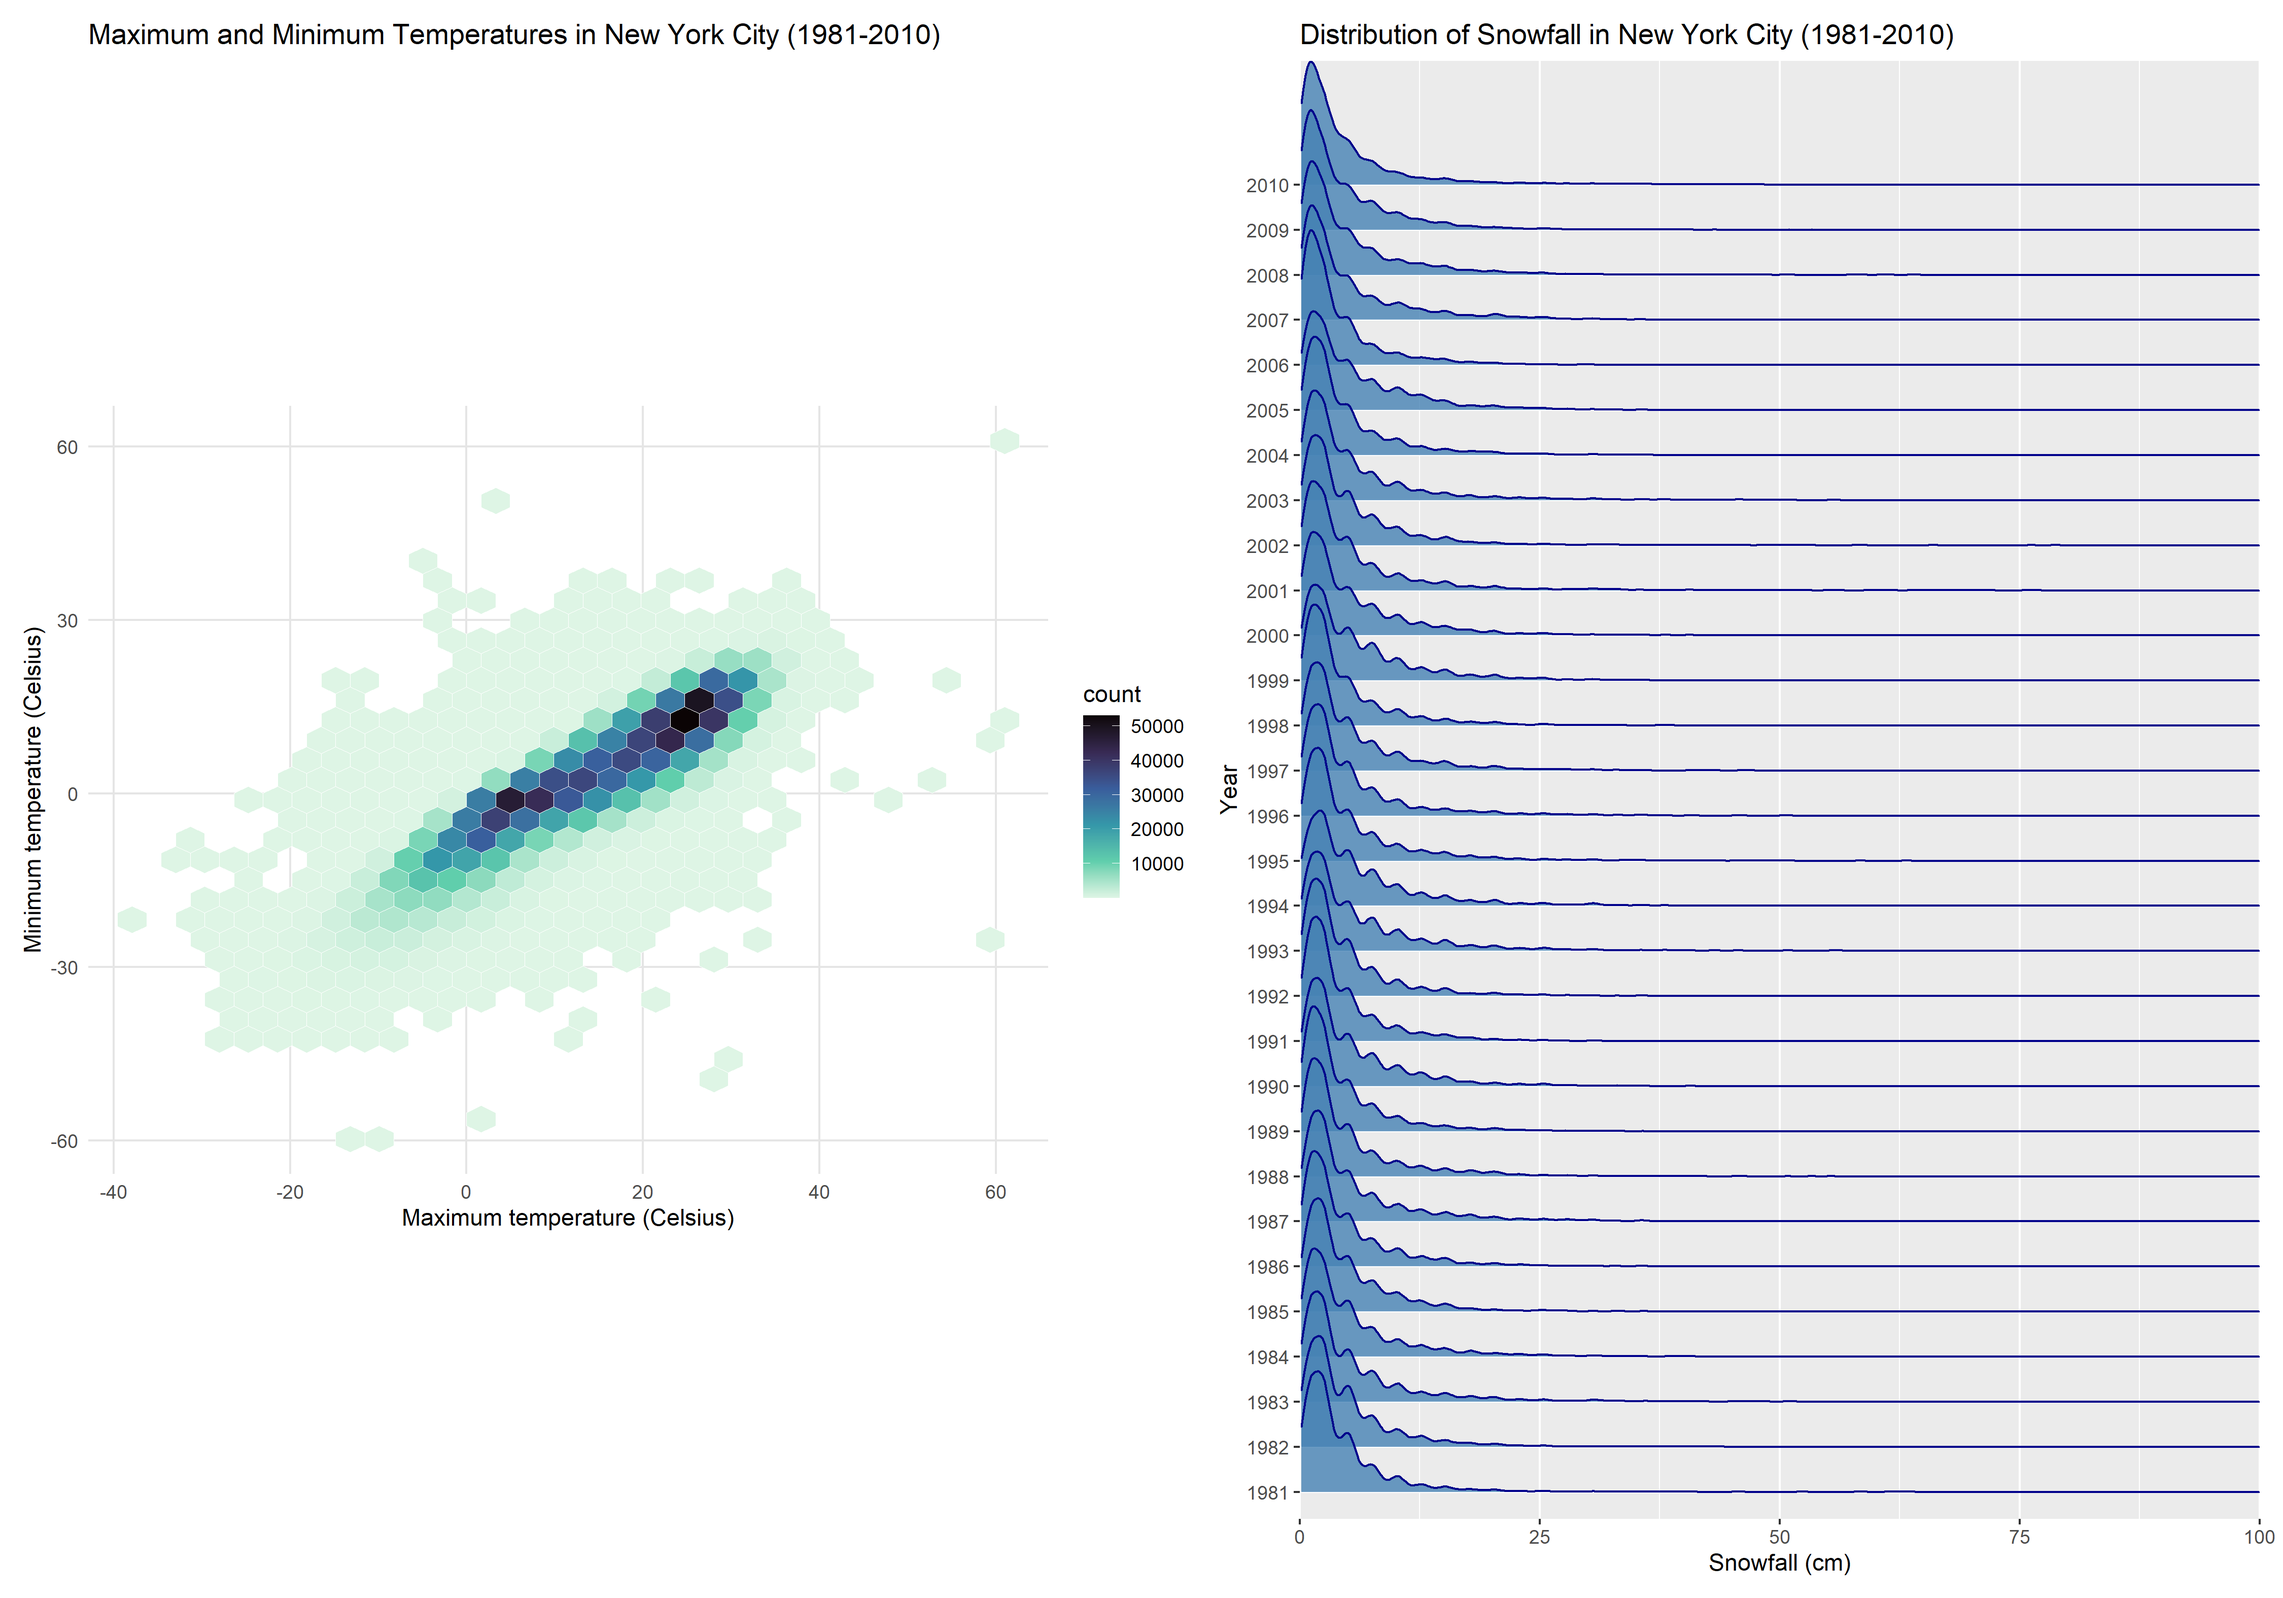
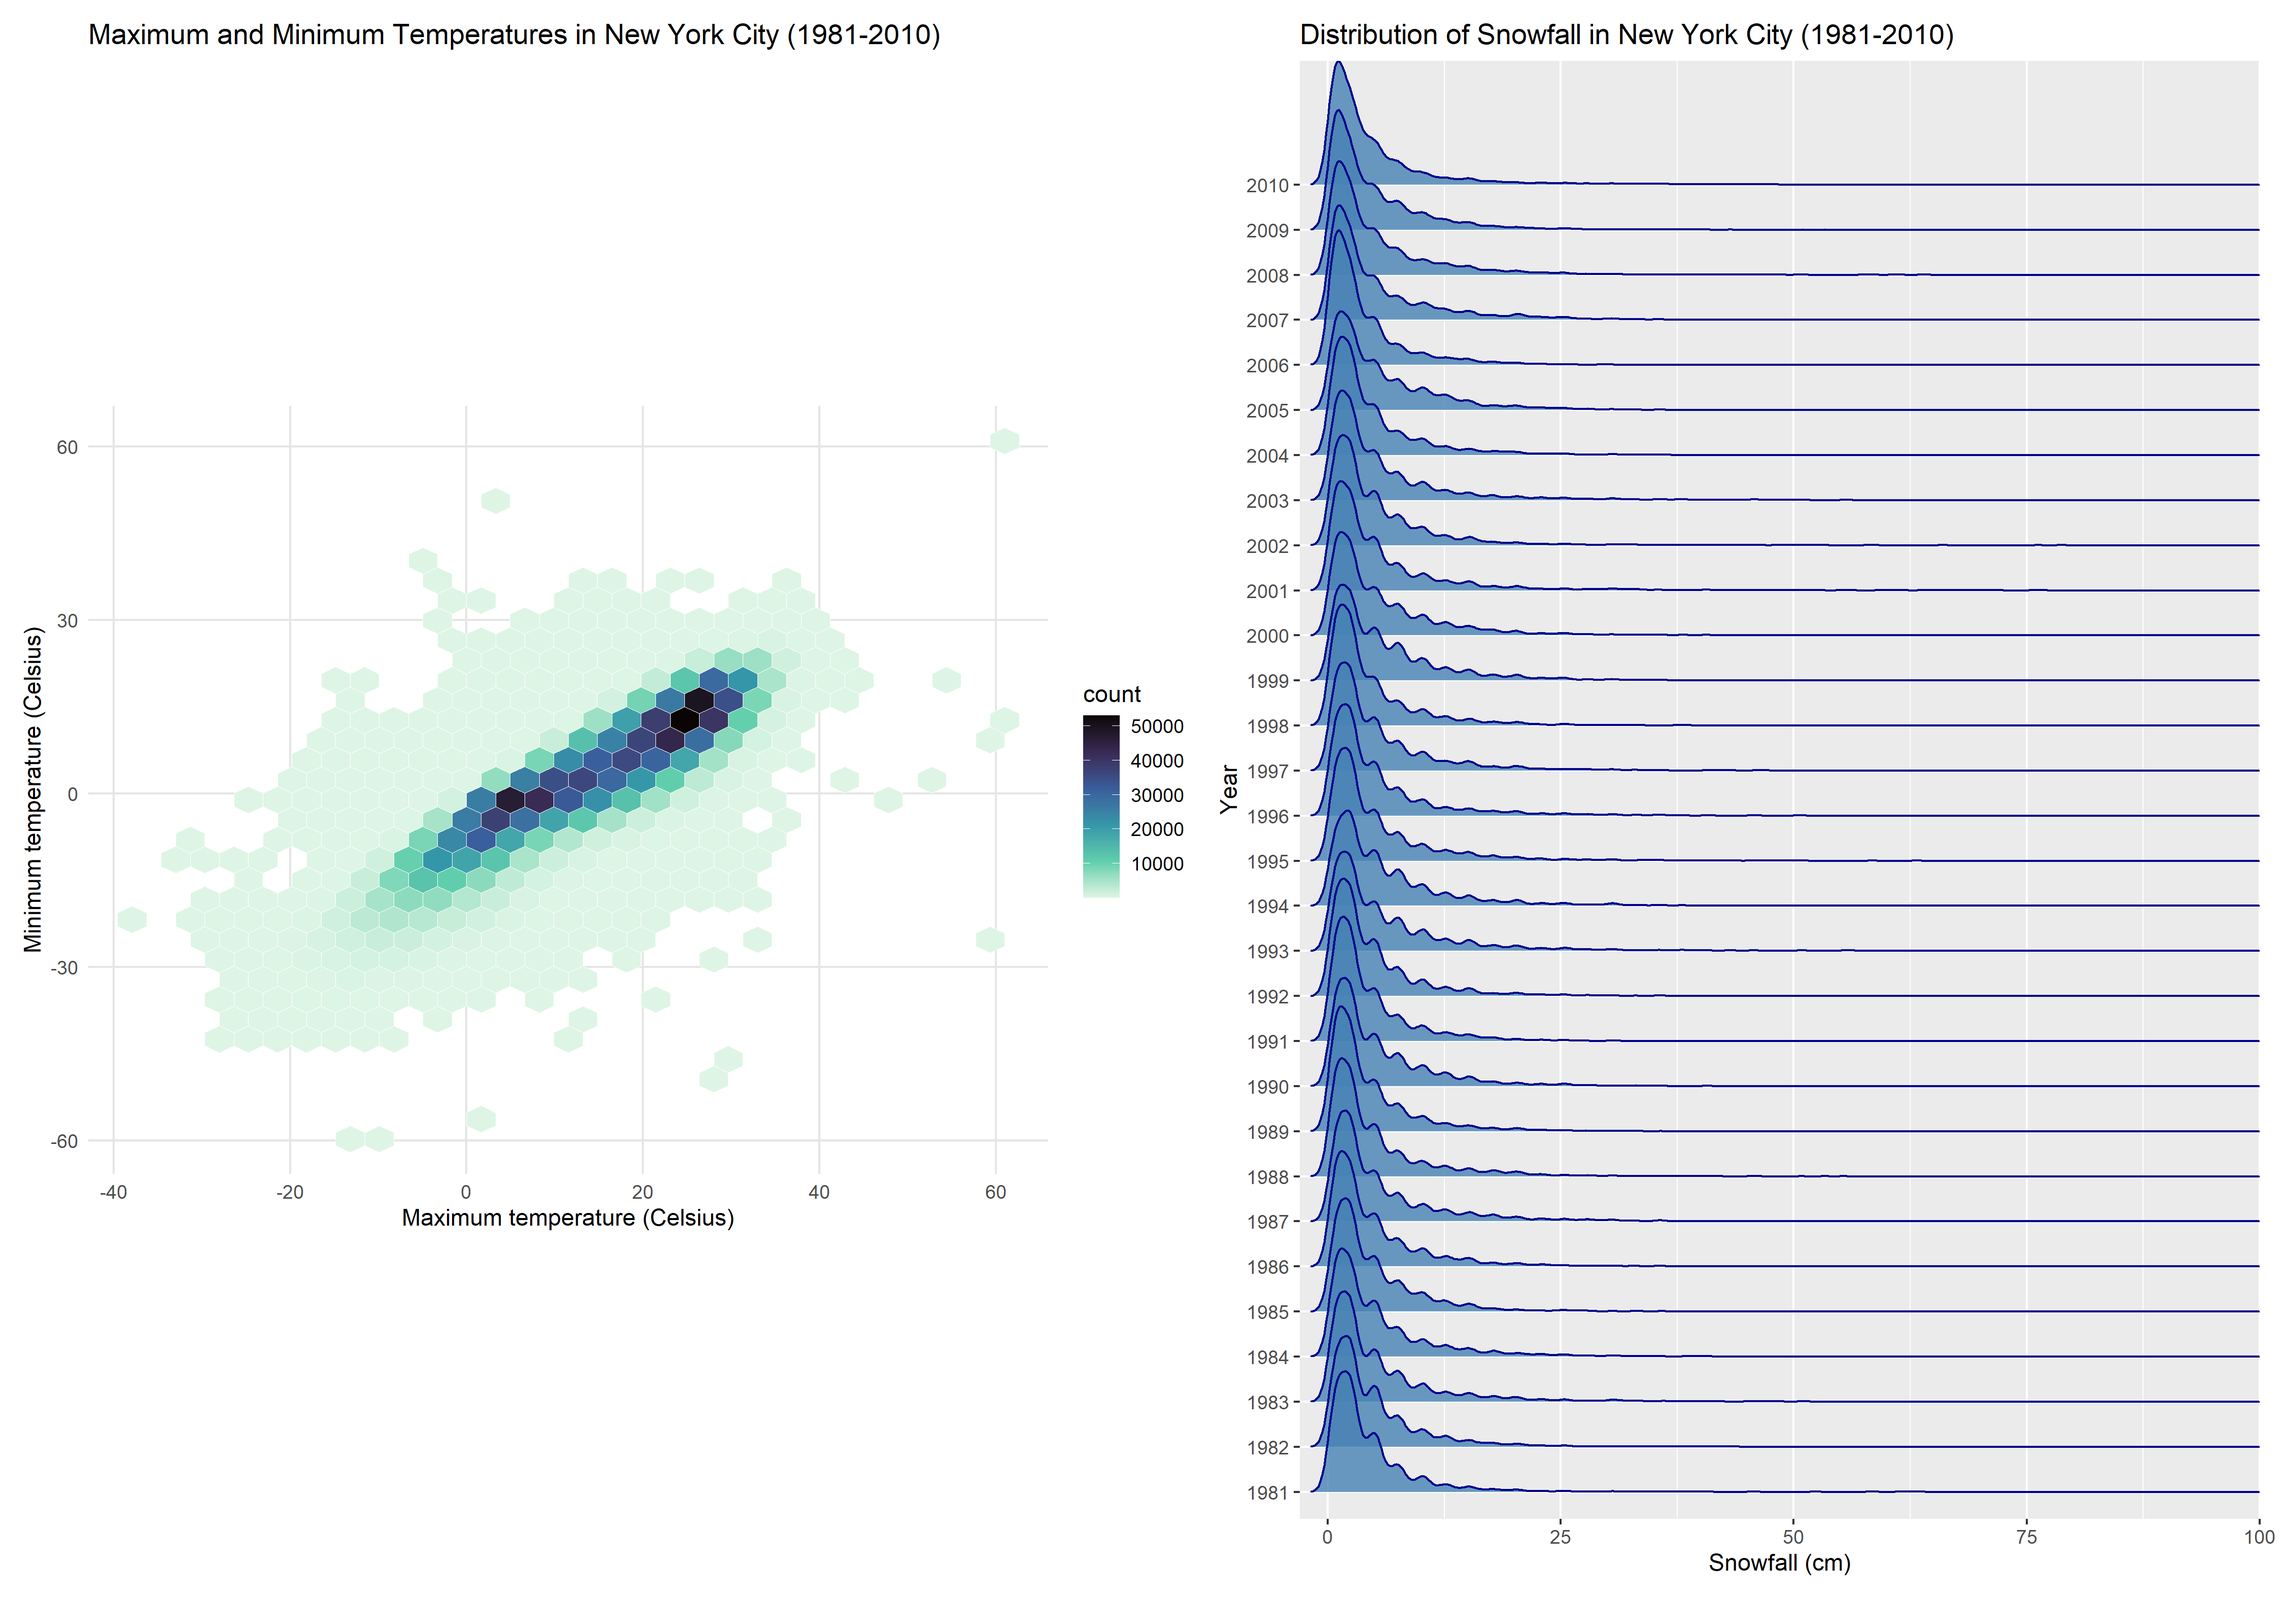
Plot total daily activity vs age, by sex and education
Add plot description

Changed region(s): [[0.56, 0.0311, 0.6533, 0.9333]]

diff --git a/p8105_hw3_ns3782.md b/p8105_hw3_ns3782.md
@@ -177,7 +177,7 @@ p2_nyc_noaa_plot <- ny_noaa_clean %>%
     fill = "steelblue",
     color = "darkblue"
   ) +
-  scale_x_continuous(limits = c(0, 100), expand = c(0, 0)) +
+  scale_x_continuous(limits = c(-3, 100), expand = c(0, 0)) +
   labs(title = "Distribution of Snowfall in New York City (1981-2010)", 
        x = "Snowfall (cm)", y = "Year")
 
@@ -353,3 +353,42 @@ stronger representation in younger age groups compared to males. These
 observations align with the participant counts in the accompanying
 table, which shows a higher number of participants (115) in the “More
 than high school” category.
+
+``` r
+# Calculate total activity and add it to nhanes_cleaned
+
+nhanes_cleaned <- nhanes_cleaned %>%
+  rowwise() %>%
+  mutate(total_activity = sum(c_across(min1:min1440), na.rm = TRUE)) %>%
+  ungroup()
+
+# Create the plot
+
+ggplot(nhanes_cleaned, aes(x = age, y = total_activity, color = sex)) +
+  geom_point(alpha = 0.6) +
+  geom_smooth(method = "loess", se = FALSE) +
+  facet_wrap(~ education, ncol = 1) +
+  scale_color_manual(values = c("male" = "purple", "female" = "skyblue")) +
+  labs(title = "Total Daily Activity vs Age by Sex and Education Level",
+       x = "Age (years)",
+       y = "Total Daily Activity (MIMS)",
+       color = "Sex") 
+```
+
+<img src="p8105_hw3_ns3782_files/figure-gfm/problem_2_total_activity-1.png" width="100%" />
+
+## Total Daily Activity vs Age, by Sex and Education Level
+
+Based on the plot, there is a general observable trend of decreasing
+activity with age across the different education categories, though this
+rate of and extent of decline varies depending on sex and education
+level. In the “Less than high school” group, men appear to have slightly
+higher activity levels than women in middle age, which declines to be
+close to equivalent in old age (70-80 years). The “High school
+equivalent” category shows that females tend to have higher activity
+levels in in their 20s, declining to have similar activity levels to
+males around age 60. The “More than high school” group shows a similar
+distribution of activity levels between the sexes. However, around age
+50 females have a slight spike in activity levels compared to men. This
+difference then declines, and by age 80, the activity levels between
+sexes in this education group become similar.
